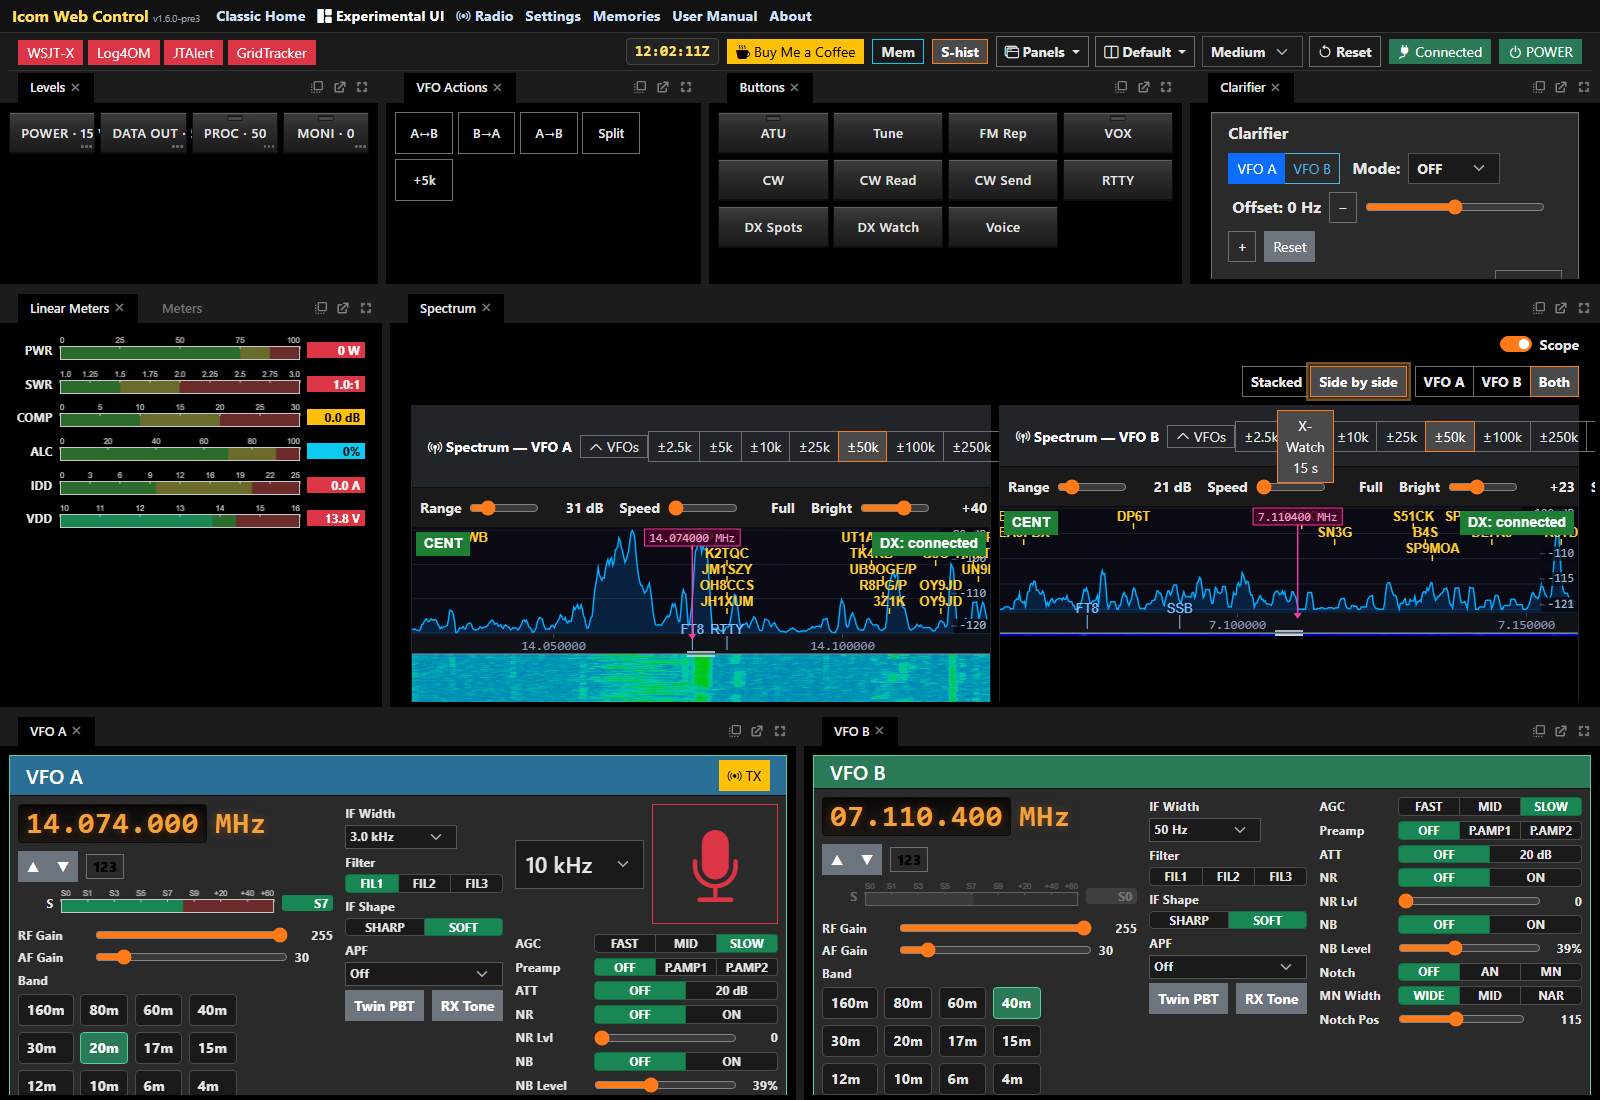
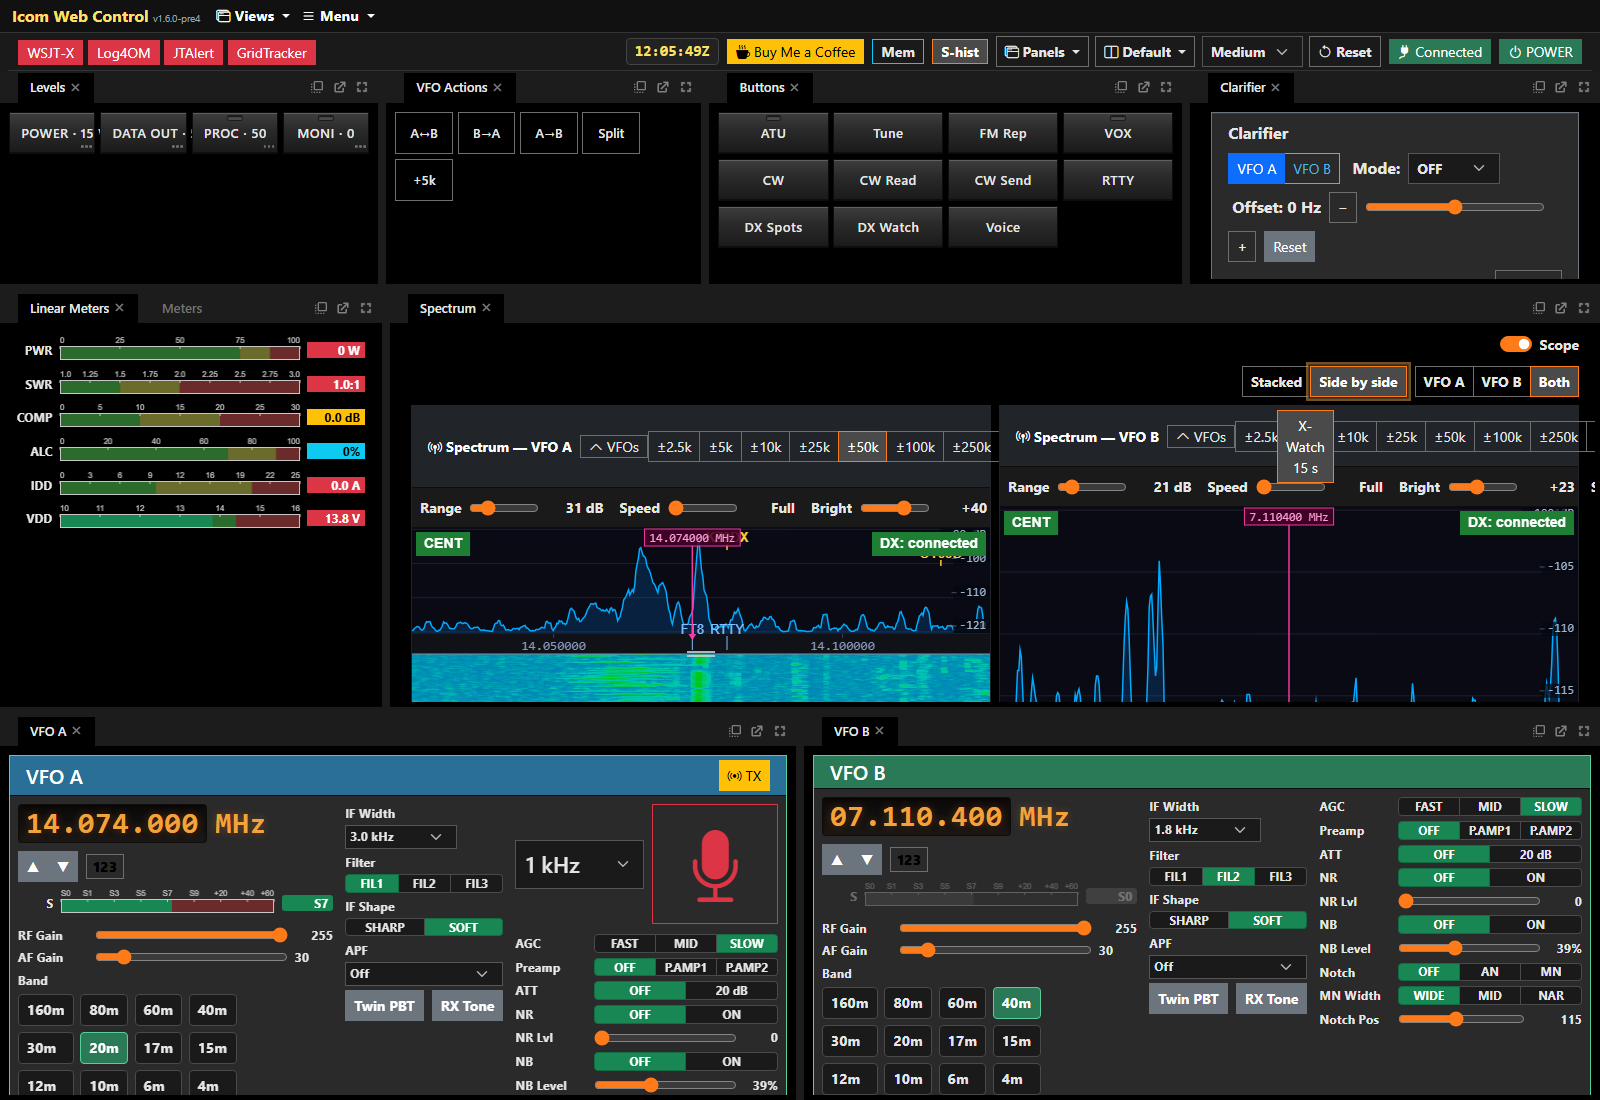
IWC: pictures from the Views build: Radio panel, Classic and Experimental

diff --git a/index.html b/index.html
@@ -464,15 +464,15 @@
                 <div class="views">
                     <div class="view-tabs">
                         <button aria-pressed="true" data-src="pictures/IWC_Radio_Panel.png"
-                            data-alt="IWC Radio panel on an IC-7300 MkII, with VFO A on 20 m and VFO B on 40 m, a CI-V scope for each with DX spots, and the main dial">Radio panel</button>
+                            data-alt="IWC Radio panel on an IC-7300 MkII, with VFO A on 20 m and VFO B on 40 m, a CI-V scope for each with DX spots, and the main dial, with the Views dropdown in the header">Radio panel</button>
                         <button aria-pressed="false" data-src="pictures/IWC_Classic.png"
-                            data-alt="IWC Classic page with meters, two spectrum scopes and a card for each VFO">Classic</button>
+                            data-alt="IWC Classic page with the Views dropdown, meters, a spectrum for VFO A on 20 m and VFO B on 40 m side by side with DX spots, and a card for each VFO">Classic</button>
                         <button aria-pressed="false" data-src="pictures/IWC_Experimental.png"
                             data-alt="IWC Experimental UI: dockable panels for meters, levels, VFO actions and buttons, a spectrum for VFO A on 20 m and VFO B on 40 m side by side with DX spots, and a card for each VFO">Experimental</button>
                     </div>
                     <a class="shot" href="pictures/IWC_Radio_Panel.png">
                         <img src="pictures/IWC_Radio_Panel.png"
-                            alt="IWC Radio panel on an IC-7300 MkII, with VFO A on 20 m and VFO B on 40 m, a CI-V scope for each with DX spots, and the main dial"
+                            alt="IWC Radio panel on an IC-7300 MkII, with VFO A on 20 m and VFO B on 40 m, a CI-V scope for each with DX spots, and the main dial, with the Views dropdown in the header"
                             loading="lazy">
                     </a>
                 </div>
@@ -576,7 +576,6 @@
         // The Radio panel screenshots show the app's own CLASSIC / EXPERIMENTAL / RADIO
         // links. Where they sit in each picture, in its pixels: [left, top, right, bottom].
         var VIEW_LINKS = {
-            "pictures/IWC_Radio_Panel.png":      { Classic: [440, 38, 530, 76], Experimental: [532, 38, 665, 76], Radio: [670, 38, 745, 76] },
             "pictures/Radio_Night_Console.png":  { Classic: [465, 40, 557, 77], Experimental: [558, 40, 695, 77], Radio: [700, 40, 772, 77] },
             "pictures/Radio_Silver_Classic.png": { Classic: [472, 38, 565, 75], Experimental: [566, 38, 702, 75], Radio: [706, 38, 780, 75] }
         };
